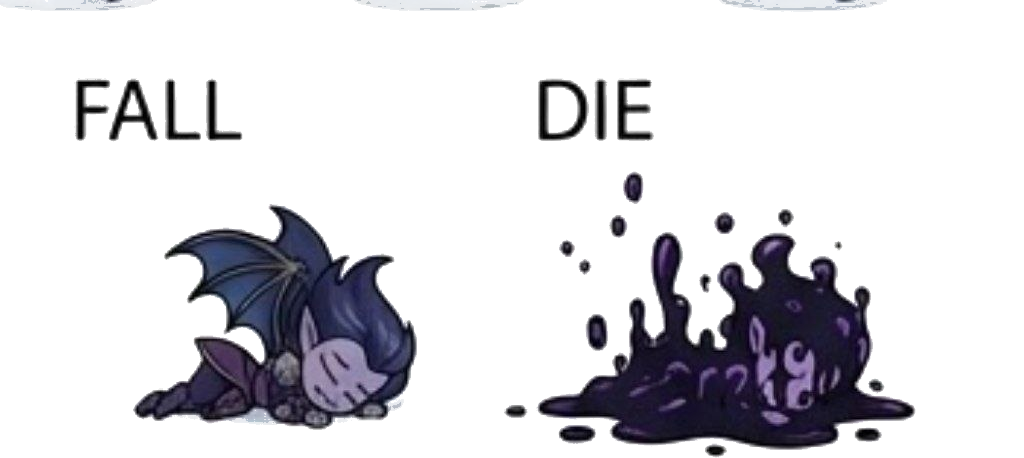
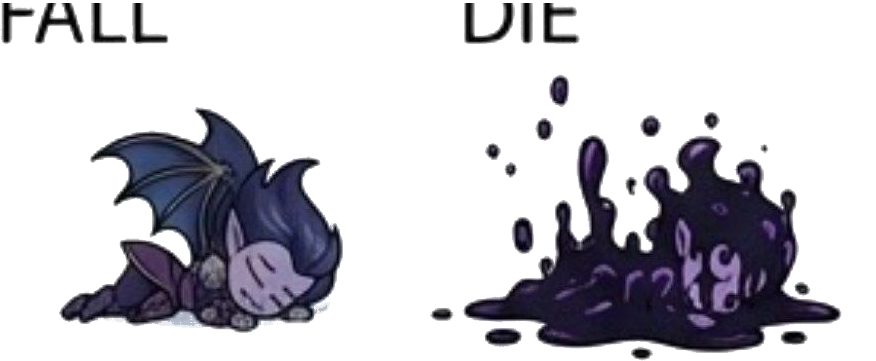
fix(game): Berry sejajar Nia + animasi, label FALL dibersihkan, kontrol mobile 2 jempol
- Berry: posisi sejajar Nia (y=player.y+18), animasi nafas + sayap bergetar + partikel kegelapan
- Re-slice berry_fall/die: label FALL dibuang (alpha=0 baris 0-22)
- Kontrol mobile 2 jempol:
  - Kiri: ◀ ▶ lebih besar (80x96 -> 96x112)
  - Kanan: Dash ⚡ + Tembak ✨ kolom vertikal besar
  - Jump: tap di mana saja di layar (overlay full-screen z-10, tombol z-20 di atas)
  - onTouchCancel tambahan (jempol slip tak stuck)

diff --git a/src/components/FairyGame.tsx b/src/components/FairyGame.tsx
@@ -334,8 +334,8 @@ export const FairyGame: React.FC<FairyGameProps> = ({ onClose }) => {
 
       {/* MOBILE / ON-SCREEN TOUCH CONTROLS (EXTRA LARGE & ERGONOMIC) */}
       <div className="relative z-20 mt-auto flex justify-between items-end p-3 sm:p-6 pb-6 sm:pb-8 pointer-events-none md:hidden gap-3 select-none">
-        {/* Left/Right D-Pad */}
-        <div className="flex gap-2 sm:gap-3 pointer-events-auto items-center">
+        {/* Left/Right D-Pad — lebih besar utk jempol */}
+        <div className="flex gap-2 sm:gap-3 pointer-events-auto items-end">
           <button
             onTouchStart={(e) => {
               e.preventDefault();
@@ -345,9 +345,10 @@ export const FairyGame: React.FC<FairyGameProps> = ({ onClose }) => {
               e.preventDefault();
               handleTouchLeft(false);
             }}
+            onTouchCancel={() => handleTouchLeft(false)}
             onMouseDown={() => handleTouchLeft(true)}
             onMouseUp={() => handleTouchLeft(false)}
-            className="w-16 h-16 sm:w-20 sm:h-20 bg-black/65 backdrop-blur-xl active:bg-cyan-500/30 rounded-2xl sm:rounded-3xl border-2 border-white/40 active:border-cyan-400 flex items-center justify-center text-3xl sm:text-4xl text-white font-bold shadow-[0_0_20px_rgba(0,0,0,0.8)] active:scale-95 transition-transform touch-none cursor-pointer"
+            className="w-20 h-24 sm:w-24 sm:h-28 bg-black/70 backdrop-blur-xl active:bg-cyan-500/40 rounded-2xl sm:rounded-3xl border-2 border-white/50 active:border-cyan-400 flex items-center justify-center text-4xl sm:text-5xl text-white font-bold shadow-[0_0_25px_rgba(0,0,0,0.8)] active:scale-95 transition-transform touch-none cursor-pointer"
           >
             ◀
           </button>
@@ -360,16 +361,17 @@ export const FairyGame: React.FC<FairyGameProps> = ({ onClose }) => {
               e.preventDefault();
               handleTouchRight(false);
             }}
+            onTouchCancel={() => handleTouchRight(false)}
             onMouseDown={() => handleTouchRight(true)}
             onMouseUp={() => handleTouchRight(false)}
-            className="w-16 h-16 sm:w-20 sm:h-20 bg-black/65 backdrop-blur-xl active:bg-cyan-500/30 rounded-2xl sm:rounded-3xl border-2 border-white/40 active:border-cyan-400 flex items-center justify-center text-3xl sm:text-4xl text-white font-bold shadow-[0_0_20px_rgba(0,0,0,0.8)] active:scale-95 transition-transform touch-none cursor-pointer"
+            className="w-20 h-24 sm:w-24 sm:h-28 bg-black/70 backdrop-blur-xl active:bg-cyan-500/40 rounded-2xl sm:rounded-3xl border-2 border-white/50 active:border-cyan-400 flex items-center justify-center text-4xl sm:text-5xl text-white font-bold shadow-[0_0_25px_rgba(0,0,0,0.8)] active:scale-95 transition-transform touch-none cursor-pointer"
           >
             ▶
           </button>
         </div>
 
-        {/* Action Buttons (Dash, Shoot, Jump) */}
-        <div className="flex gap-2 sm:gap-3 items-end pointer-events-auto">
+        {/* Action Buttons (Dash ⚡ + Tembak ✨) — kolom kanan */}
+        <div className="flex flex-col gap-3 sm:gap-4 items-end pointer-events-auto">
           {/* Dash ⚡ */}
           <button
             onTouchStart={(e) => {
@@ -377,11 +379,11 @@ export const FairyGame: React.FC<FairyGameProps> = ({ onClose }) => {
               handleTouchDash();
             }}
             onClick={handleTouchDash}
-            className="w-14 h-14 sm:w-16 sm:h-16 bg-gradient-to-br from-amber-500/40 to-yellow-600/50 active:from-amber-400 active:to-yellow-500 border-2 border-amber-300/80 rounded-2xl sm:rounded-3xl flex flex-col items-center justify-center shadow-[0_0_20px_rgba(245,158,11,0.5)] active:scale-95 transition-transform touch-none cursor-pointer"
+            className="w-20 h-20 sm:w-24 sm:h-24 bg-gradient-to-br from-amber-500/50 to-yellow-600/60 active:from-amber-400 active:to-yellow-500 border-2 border-amber-300/90 rounded-2xl sm:rounded-3xl flex flex-col items-center justify-center shadow-[0_0_25px_rgba(245,158,11,0.6)] active:scale-95 transition-transform touch-none cursor-pointer"
             title="Dash"
           >
-            <span className="text-xl sm:text-2xl leading-none">⚡</span>
-            <span className="text-[9px] font-black uppercase text-amber-100 mt-0.5 tracking-wider">Dash</span>
+            <span className="text-3xl sm:text-4xl leading-none">⚡</span>
+            <span className="text-[10px] sm:text-xs font-black uppercase text-amber-100 mt-1 tracking-wider">Dash</span>
           </button>
 
           {/* Shoot ✨ */}
@@ -391,28 +393,26 @@ export const FairyGame: React.FC<FairyGameProps> = ({ onClose }) => {
               handleTouchShoot();
             }}
             onClick={handleTouchShoot}
-            className="w-16 h-16 sm:w-18 sm:h-18 bg-gradient-to-br from-cyan-500/45 to-blue-600/55 active:from-cyan-400 active:to-blue-500 border-2 border-cyan-300/80 rounded-2xl sm:rounded-3xl flex flex-col items-center justify-center shadow-[0_0_25px_rgba(34,211,238,0.6)] active:scale-95 transition-transform touch-none cursor-pointer"
+            className="w-20 h-20 sm:w-24 sm:h-24 bg-gradient-to-br from-cyan-500/50 to-blue-600/60 active:from-cyan-400 active:to-blue-500 border-2 border-cyan-300/90 rounded-2xl sm:rounded-3xl flex flex-col items-center justify-center shadow-[0_0_25px_rgba(34,211,238,0.6)] active:scale-95 transition-transform touch-none cursor-pointer"
             title="Tembak Sihir"
           >
-            <span className="text-2xl sm:text-3xl leading-none">✨</span>
-            <span className="text-[9px] font-black uppercase text-cyan-100 mt-0.5 tracking-wider">Tembak</span>
-          </button>
-
-          {/* Jump / Flutter 🪽 (Extra Large Main Button) */}
-          <button
-            onTouchStart={(e) => {
-              e.preventDefault();
-              handleTouchJump();
-            }}
-            onClick={handleTouchJump}
-            className="w-18 h-18 sm:w-22 sm:h-22 bg-gradient-to-br from-pink-500/50 to-purple-600/60 active:from-pink-400 active:to-purple-500 border-2 border-pink-300 rounded-2xl sm:rounded-3xl flex flex-col items-center justify-center shadow-[0_0_30px_rgba(244,63,94,0.7)] active:scale-95 transition-transform touch-none cursor-pointer"
-            title="Lompat / Melayang"
-          >
-            <span className="text-3xl sm:text-4xl leading-none">🪽</span>
-            <span className="text-[10px] sm:text-xs font-black uppercase text-pink-100 mt-0.5 tracking-wider">Lompat</span>
+            <span className="text-3xl sm:text-4xl leading-none">✨</span>
+            <span className="text-[10px] sm:text-xs font-black uppercase text-cyan-100 mt-1 tracking-wider">Tembak</span>
           </button>
         </div>
       </div>
+
+      {/* JUMP: tap di mana saja di layar (area bebas, di bawah tombol) — overlay full-screen */}
+      <div
+        className="absolute inset-0 z-10 md:hidden pointer-events-auto touch-none"
+        onTouchStart={(e) => {
+          // jangan trigger kalau tap di tombol (tombol z-20 di atas)
+          e.preventDefault();
+          handleTouchJump();
+        }}
+        onMouseDown={() => handleTouchJump()}
+        aria-hidden="true"
+      />
 
       {/* MODAL: LEVEL COMPLETE */}
       {gameState.status === 'levelcomplete' && (

diff --git a/src/game/scenes/MainScene.ts b/src/game/scenes/MainScene.ts
@@ -311,23 +311,32 @@ export class MainScene extends Phaser.Scene {
       // Scene 1: The Plea — Berry lemah di depan Nia, game pause saat dialog
       this.physics.pause();
 
-      // Spawn Berry (sprite FALL) di samping Nia — tergeletak lemah
-      const groundY = this.physics.world.bounds.height - (this.scale.width < 768 ? 110 : 40);
-      const berry = this.add.image(this.player.x + 90, groundY - 45, 'berry_fall');
-      berry.setScale(0.28);
+      // Spawn Berry (sprite FALL) — sejajar dengan Nia (posisi player)
+      const niaY = this.player.y; // Nia di atas platform/ground
+      const berry = this.add.image(this.player.x + 100, niaY + 18, 'berry_fall');
+      berry.setScale(0.26);
       berry.setDepth(9);
-      // efek nafas lemah (naik-turun halus)
+      // animasi nafas: naik-turun halus + sayap bergetar
       this.tweens.add({
         targets: berry,
-        y: berry.y - 4,
+        y: berry.y - 5,
         yoyo: true,
         repeat: -1,
-        duration: 1200,
+        duration: 1100,
+        ease: 'Sine.easeInOut',
+      });
+      // sayap: sedikit rotasi kiri-kanan (kesan sekarat)
+      this.tweens.add({
+        targets: berry,
+        angle: { from: -4, to: 4 },
+        yoyo: true,
+        repeat: -1,
+        duration: 700,
         ease: 'Sine.easeInOut',
       });
 
       // aura gelap tipis di sekitar Berry
-      const darkAura = this.add.ellipse(berry.x, berry.y - 10, 170, 60, 0x4a0e4e, 0.25);
+      const darkAura = this.add.ellipse(berry.x, berry.y - 15, 170, 60, 0x4a0e4e, 0.25);
       darkAura.setDepth(8);
       this.tweens.add({
         targets: darkAura,
@@ -336,6 +345,19 @@ export class MainScene extends Phaser.Scene {
         repeat: -1,
         duration: 900,
       });
+
+      // partikel kegelapan mengepul dari Berry
+      const darkParticles = this.add.particles(berry.x, berry.y, 'sparkle_particle', {
+        speed: { min: 8, max: 24 },
+        angle: { min: 200, max: 340 },
+        scale: { start: 0.5, end: 0 },
+        alpha: { start: 0.5, end: 0 },
+        tint: 0x4a0e4e,
+        lifespan: 1400,
+        frequency: 120,
+        quantity: 1,
+      });
+      darkParticles.setDepth(9);
 
       this.dialog.show(STORY_INTRO, () => {
         this.physics.resume();
@@ -348,6 +370,7 @@ export class MainScene extends Phaser.Scene {
           onComplete: () => {
             berry.destroy();
             darkAura.destroy();
+            darkParticles.destroy();
           },
         });
       });

diff --git a/scripts/slice_berry.py b/scripts/slice_berry.py
@@ -19,7 +19,7 @@ def make_bg_map(x0, x1):
     ])
     return border.mean(axis=0)
 
-def remove_bg(x0, x1, out_name, top=12):
+def remove_bg(x0, x1, out_name, top=24):
     crop = im.crop((x0, top, x1, h))
     ca = np.array(crop).astype(int)
     bg = make_bg_map(x0, x1)
